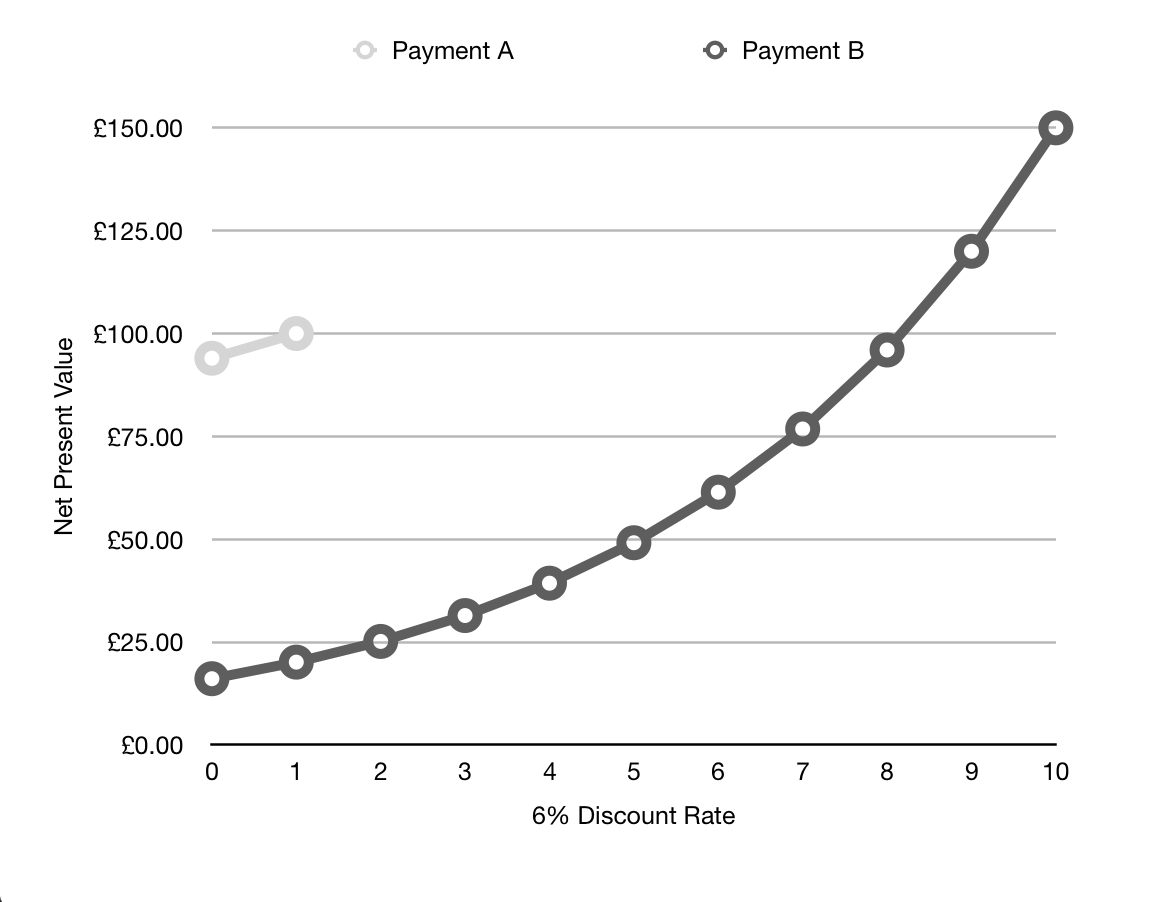
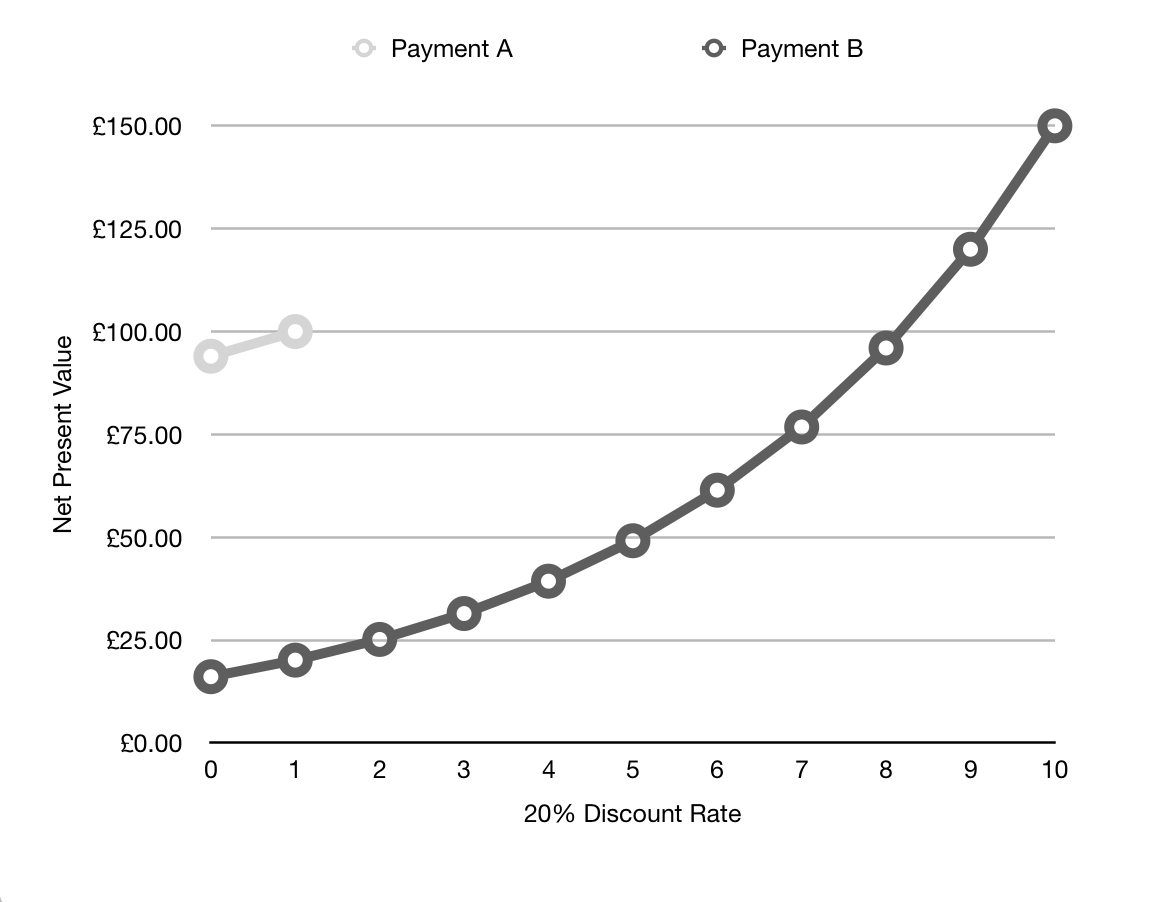
Improving graphs for Evaluating Risk
Former-commit-id: b8b65d985c0213b7325f3965f49f991e82d4266b

diff --git a/introduction/Evaluating-Risk.md b/introduction/Evaluating-Risk.md
@@ -127,22 +127,22 @@ And, this is _fine_, McConnell is structuring the process from the perspective o
 
 ![Pillars, re-arranged](images/kite9/rapid_development_pillars2.png)
 
-As we will see, _Speed_ (or [Schedule Risk](Scarcity-Risk#schedule-risk) as we will term it) is one risk amongst others that need to be considered from a risk-management perspective.  There's no point in prioritising _speed_ if the software fails in production due to unaddressed [Operational Risk](Operational-Risk), and irreparably damages trust in the product.
+As we will see, _Speed_ (or [Schedule Risk](Scarcity-Risk#schedule-risk) as we will term it) is one risk amongst others that need to be considered from a risk-management perspective.  There's no point in prioritising _speed_ if the software fails in production due to [Operational Risk](Operational-Risk) issues and damages trust in the product.
 
 ### Eisenhower's Box
 
-![A basic "Eisenhower box" to help evaluate urgency and importance. Items may be placed at more precise points within each quadrant.  - Adapted From [Time Management, _Wikipedia_](https://en.wikipedia.org/wiki/Time_management)](images/generated/introductioneisenhowers_box.png)
+![A basic "Eisenhower box" to help evaluate urgency and importance. Items may be placed at more precise points within each quadrant.  - Adapted From [Time Management, _Wikipedia_](https://en.wikipedia.org/wiki/Time_management)](images/generated/introduction/eisenhowers_box.png)
 
 Eisenhower's Box is a simple model allowing us to consider _two_ aspects of risk at the same time:
 
- - How valuable the work is (Importance, Value)
- - How soon it is needed (Urgency, Time)
+ - How valuable the work is (Importance, Value).
+ - How soon it is needed (Urgency, Time).
 
 The problem is, we now need to take a call on whether to do something that is _urgent_ or something that is _important_.
 
 ## Discounting
 
-[Net Present Value](https://en.wikipedia.org/wiki/Net_present_value) allows us to discount value in the future, which offers us a way to reconcile these two variables.  In the diagram, you can see two future payments, one of £100 due in one year, one of £150 due in 10 years.  By discounting at a given rate (here at 6% per year) we can compare their worth _now_.
+[Net Present Value](https://en.wikipedia.org/wiki/Net_present_value) allows us to discount value in the future, which offers us a way to reconcile these two variables.  In the diagram, you can see two future payments, Payment A of £100 due in one year, and Payment B of £150 due in 10 years.  By discounting at a given rate (here at 6% per year) we can compare their worth _now_.
 
 ![Net Present Value Discounting](images/numbers/npv.png)
 
@@ -202,7 +202,7 @@ Enough with the numbers and the theory:  Risk-First is an attempt to provide a p
 - Second,  IT projects have too many confounding factors, such as experience of the teams, 
 technologies used etc.  That is, the risks faced by IT projects are _too diverse_ and _hard to quantify_ to allow for meaningful comparison from one to the next.
 - Third, as soon as you _publish a date_ it changes the expectations of the project (see [Student Syndrome](Scarcity-Risk#schedule-risk)).
-- Fourth, metrics get first of all [misused](Map-And-Territory-Risk) and then [gamed](Agency-Risk).
+- Fourth, metrics get first of all [misused](Map-And-Territory-Risk) and then [gamed](Agency-Risk) (as we will see in a later chapter).
 
 Reality is messy.  Dressing it up with numbers doesn't change that and you risk [fooling yourself](Map-And-Territory-Risk).  If this is the case, is there any hope at all in what we're doing?  I would argue yes:   _forget precision_.  You should, with experience be able to hold up two separate risks and answer the question, "is this one bigger than this one?"  
 

diff --git a/introduction/All-Risk-Management.md b/introduction/All-Risk-Management.md
@@ -50,7 +50,7 @@ And, as we saw in the [Introduction](A-Simple-Scenario), even something _mundane
 - And fixing an issue is an action... 
 - Which, as we just saw also carry risk.
 
-One retort to this might be to say:  an issue is a problem I have now, whereas a risk is a problem that _might_ occur.  I am going to try and break that mind-set in the coming pages, but I'll just start with this:
+One retort to this might be to say:  "An issue is a problem I have now, whereas a risk is a problem that _might_ occur. "  I am going to try and break that mind-set in the coming pages, but I'll just start with this:
 
 - Do you know _exactly_ how much damage this issue will do?
 - Can you be sure that the issue might not somehow go away?  
